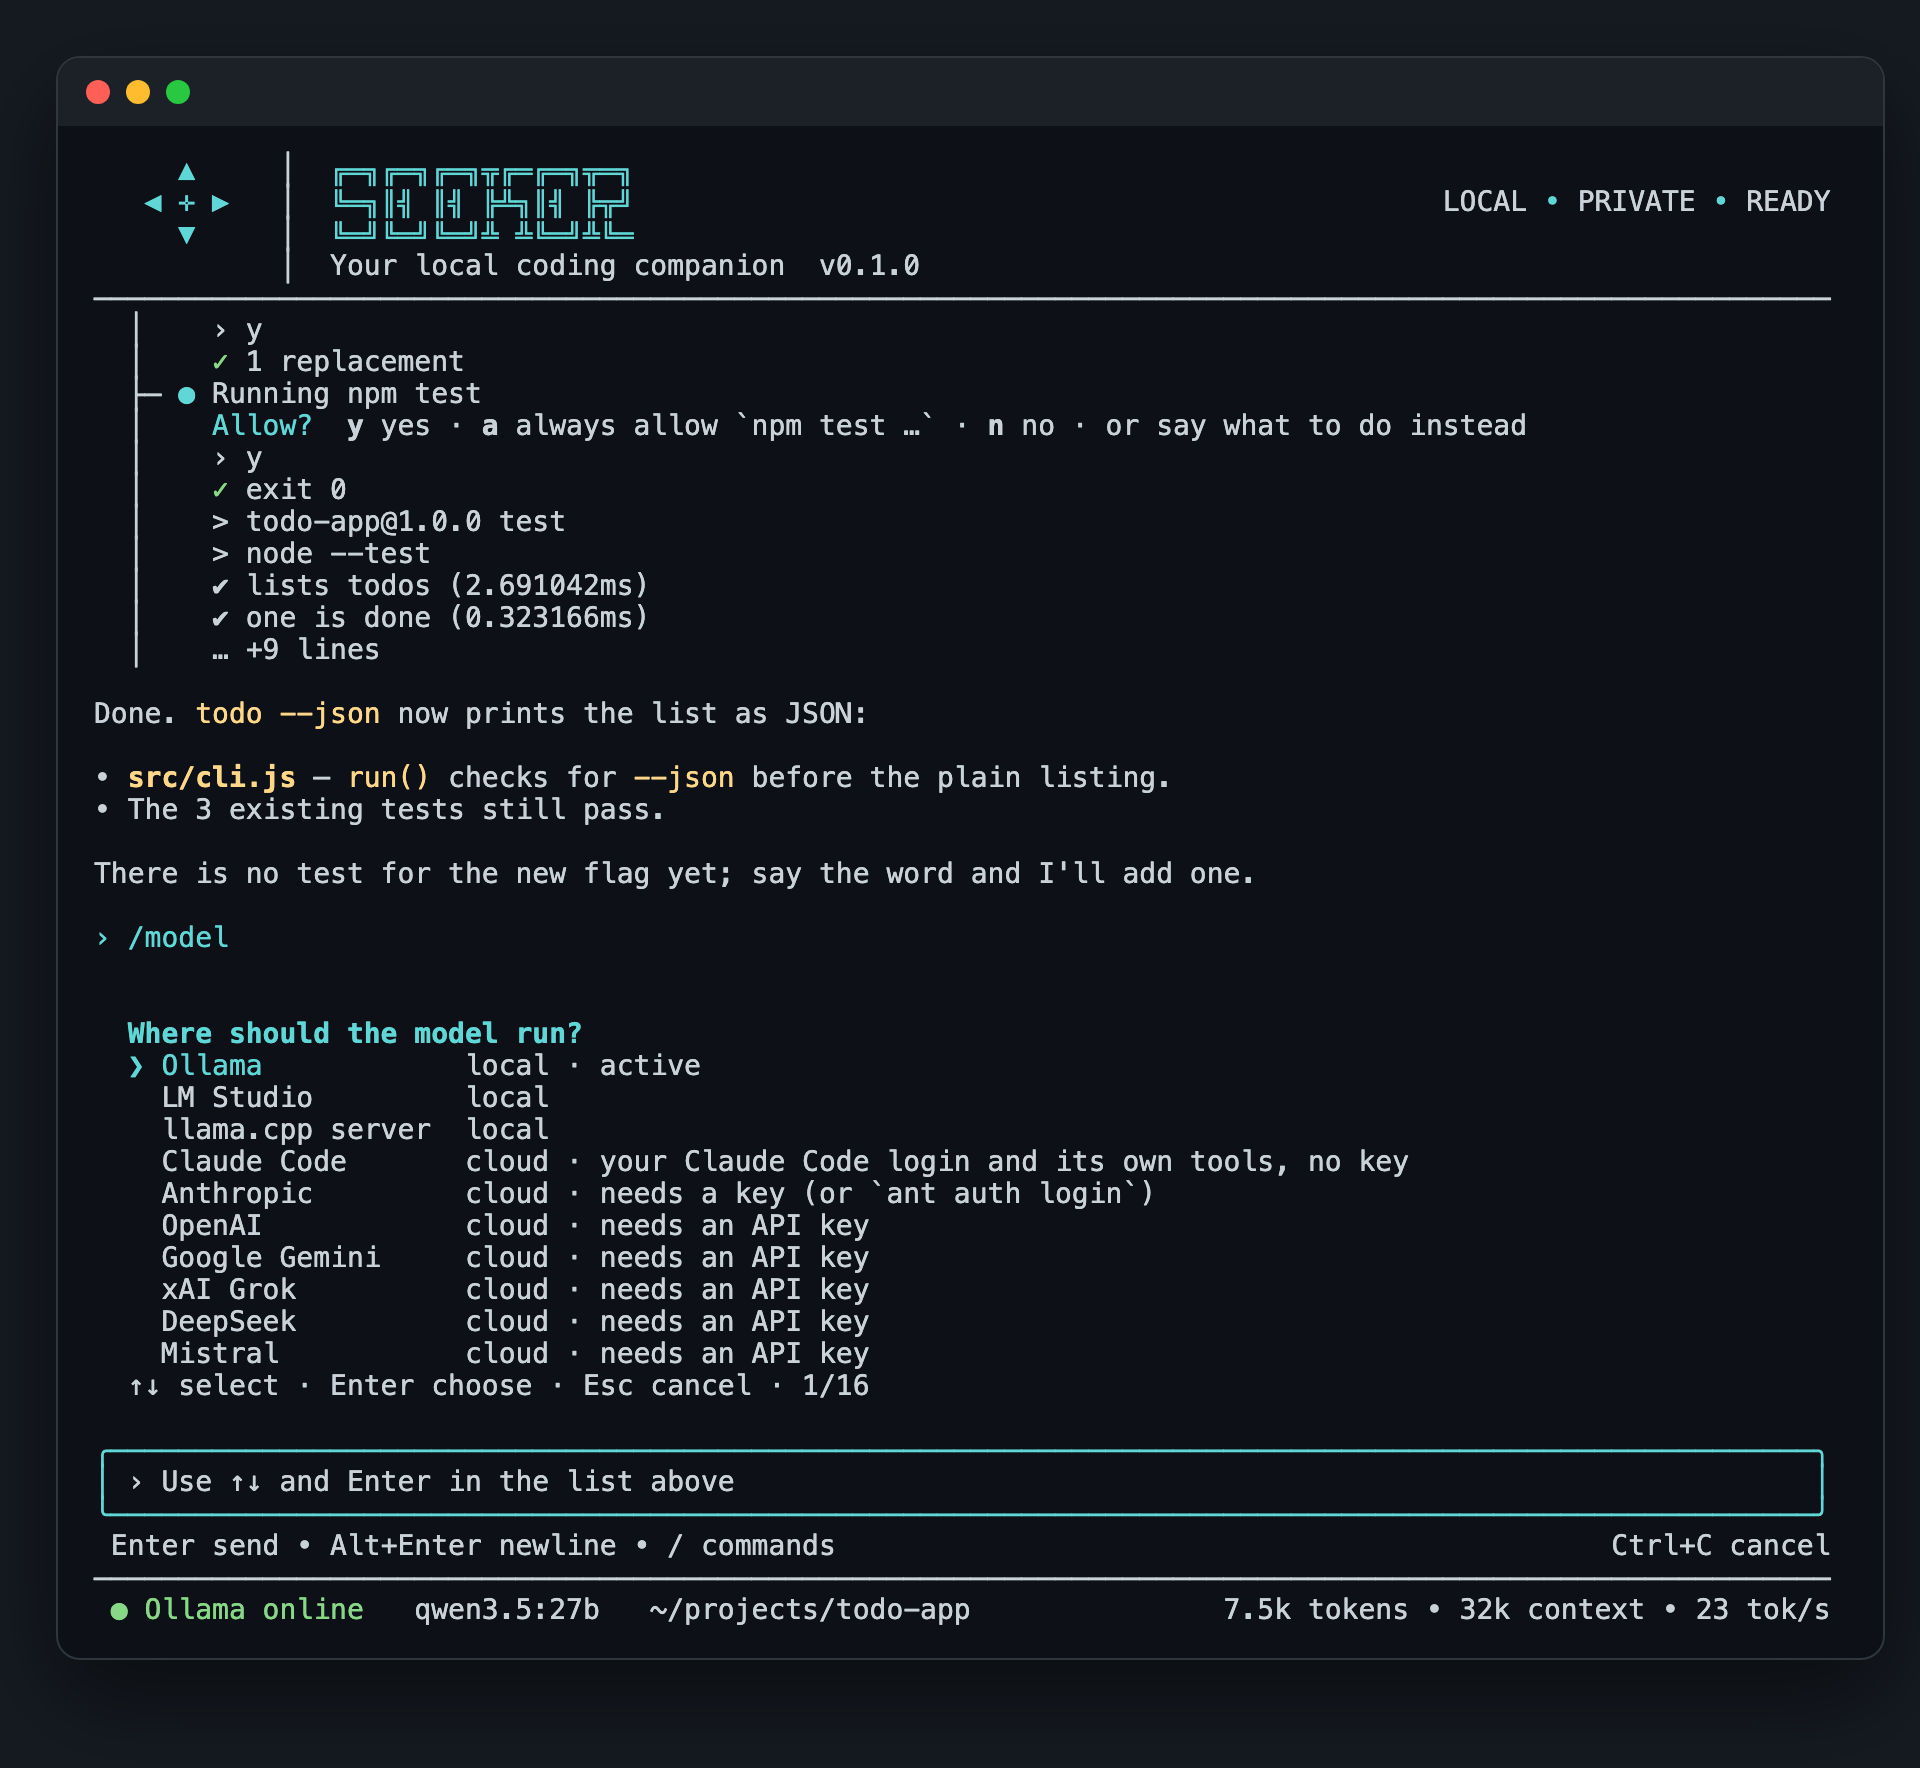
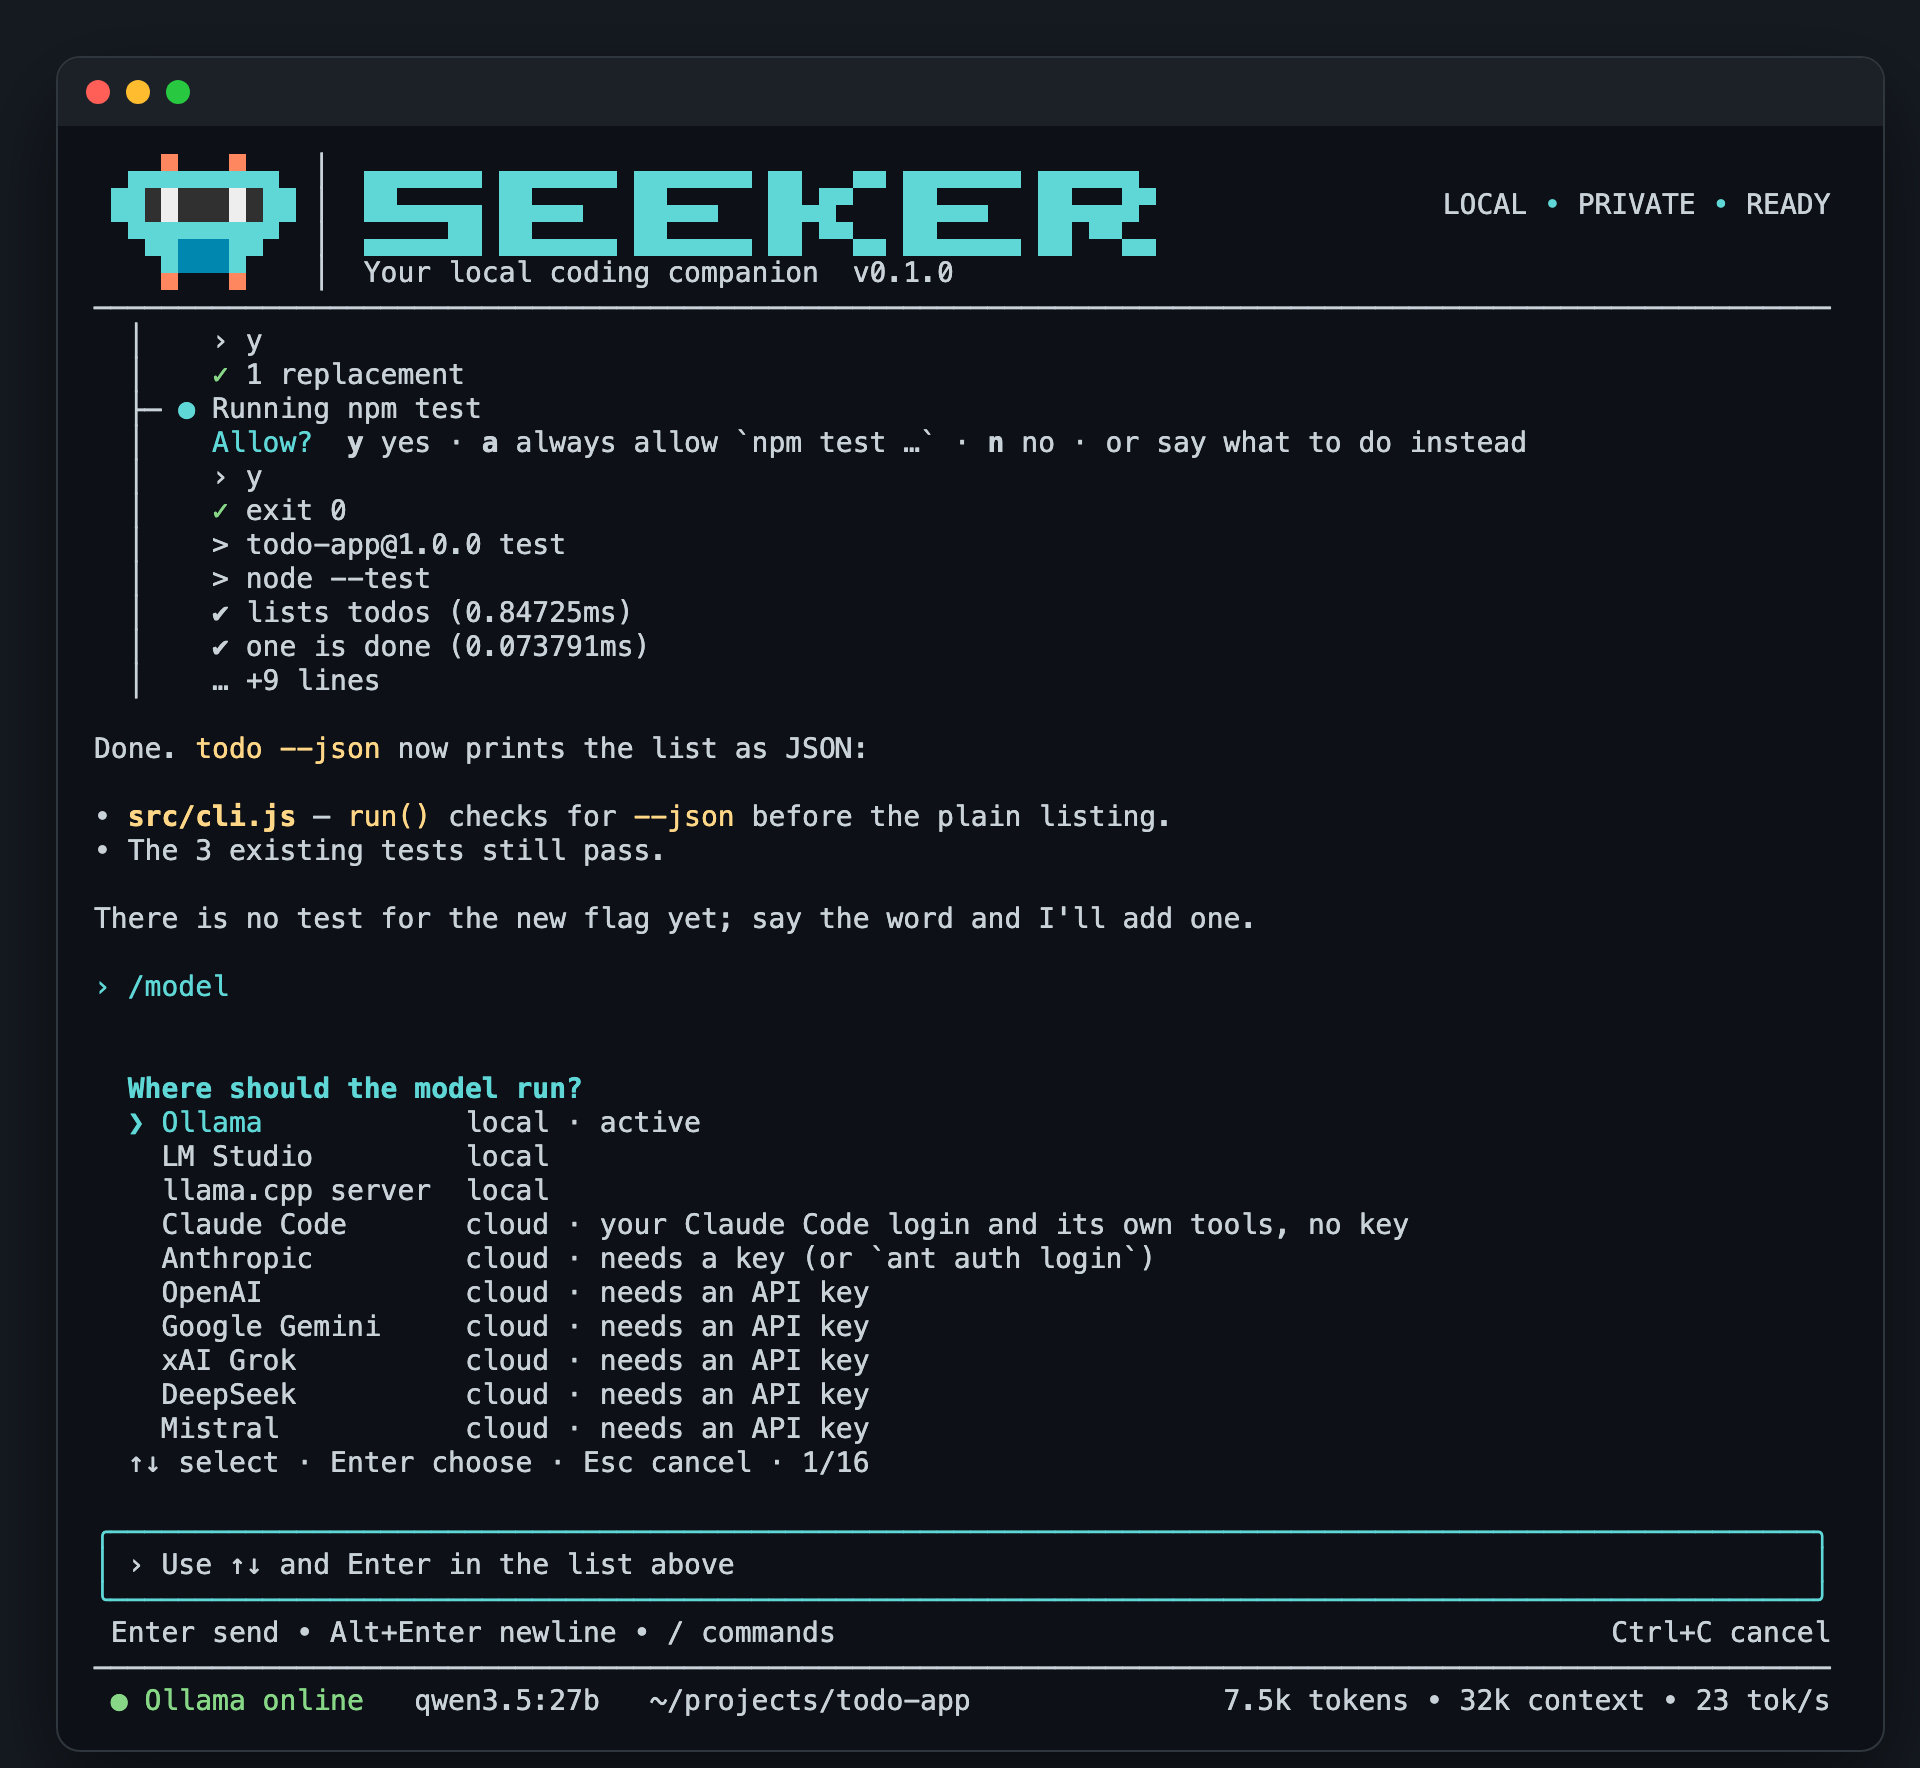
Header: pixel robot that blinks, and a block wordmark
The robot and the SEEKER wordmark are drawn with half-block characters.
The robot blinks, glances left and right, and flashes its antenna while
the model works; /config -> animation turns the motion off. On a narrow
window the small wordmark is used so the LOCAL/CLOUD badge stays visible.

Claude-Session: https://claude.ai/code/session_01ApstGPgC3R6MN6pESNUFqY

diff --git a/README.id.md b/README.id.md
@@ -26,6 +26,7 @@ seeker --yolo                # tanpa tanya izin (perintah berbahaya tetap ditany
 
 Di dalam sesi: `/init`, `/model`, `/resume`, `/config`, `/skills`, `/clear`, `/compact`, `/status`, `/think`, `/yolo`, `/help`, `/exit`, dan `!perintah`.
 Ketik `/` untuk melihat saran perintah, Tab untuk melengkapi, Alt+Enter untuk baris baru, ↑↓ untuk riwayat pesan.
+Robot di header berkedip dan melirik; `/config` → `animation` untuk mematikannya.
 
 ## Model dan penyedia
 
@@ -191,12 +192,13 @@ ollama pull qwen3.5:27b
 | `src/ollama.mjs`, `src/http.mjs` | client streaming Ollama dan HTTP dasar |
 | `src/skills.mjs` | skill: `~/.seeker/skills/<nama>/SKILL.md`, `.seeker/skills/<nama>/SKILL.md`, dan skill plugin `~/.seeker/plugins/<plugin>/skills/…` yang dipanggil sebagai `/plugin:nama` |
 | `src/ui.mjs`, `src/markdown.mjs` | tampilan: header, panel, pohon langkah tool, status bar |
+| `src/mascot.mjs` | robot dan tulisan SEEKER di header, digambar sebagai piksel, beserta animasi robotnya |
 | `src/screen.mjs` | tata letak layar penuh: header menempel di atas, kotak input di bawah, percakapan di tengah (baris lama masuk scrollback terminal) |
 | `src/text.mjs` | ukur dan bungkus teks berwarna (ANSI, karakter lebar) |
 | `src/input.mjs` | editor input (raw key press, riwayat, paste) |
 | `src/menu.mjs` | menu `/config` dan pemilih `/model`, `/resume` |
 
-Pengaturan disimpan di `~/.seeker/config.json` (`model`, `numCtx`, `think`, `showThinking`, `host`),
+Pengaturan disimpan di `~/.seeker/config.json` (`model`, `numCtx`, `think`, `showThinking`, `animation`, `host`),
 riwayat percakapan di `~/.seeker/sessions/`. Catatan yang berlaku di semua proyek: `~/.seeker/SEEKER.md`.
 
 ## Tes

diff --git a/README.md b/README.md
@@ -28,6 +28,7 @@ seeker --yolo                # no permission prompts (dangerous commands are sti
 Inside a session: `/init`, `/model`, `/key`, `/resume`, `/config`, `/skills`, `/mcp`, `/clear`, `/compact`,
 `/status`, `/think`, `/yolo`, `/help`, `/exit`, and `!command`.
 Type `/` for command suggestions, Tab to complete, Alt+Enter for a new line, ↑↓ for message history.
+The robot in the header blinks and looks around; `/config` → `animation` turns that off.
 
 ## Install
 
@@ -214,6 +215,7 @@ plain Node.
 | `src/session.mjs`, `src/config.mjs` | saved conversations (`~/.seeker/sessions/`) and settings (`~/.seeker/config.json`) |
 | `src/commands.mjs`, `src/menu.mjs` | slash commands, the `/config` menu, the `/model` and `/resume` pickers |
 | `src/ui.mjs`, `src/markdown.mjs`, `src/text.mjs` | rendering: header, panels, tool-step tree, status bar; measuring and wrapping coloured text |
+| `src/mascot.mjs` | the robot and the wordmark in the header, drawn as pixels, and the robot's animation |
 | `src/screen.mjs`, `src/input.mjs` | full-screen layout (header pinned on top, input box at the bottom) and the input editor |
 
 ## Tests
